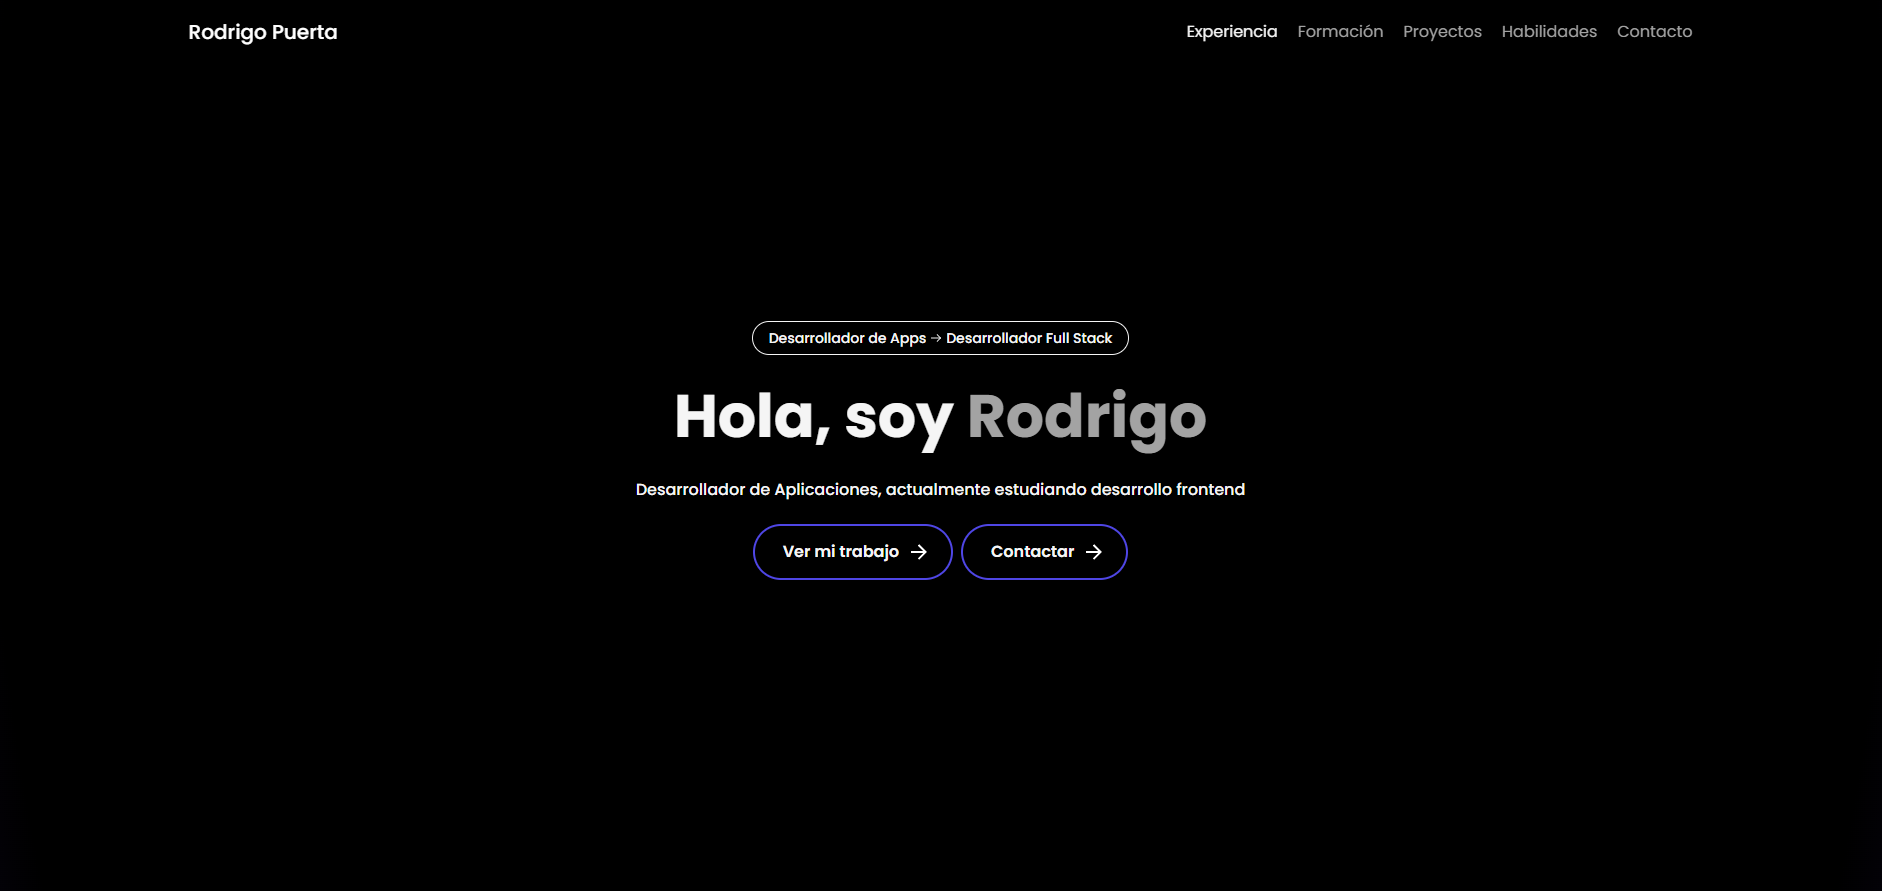
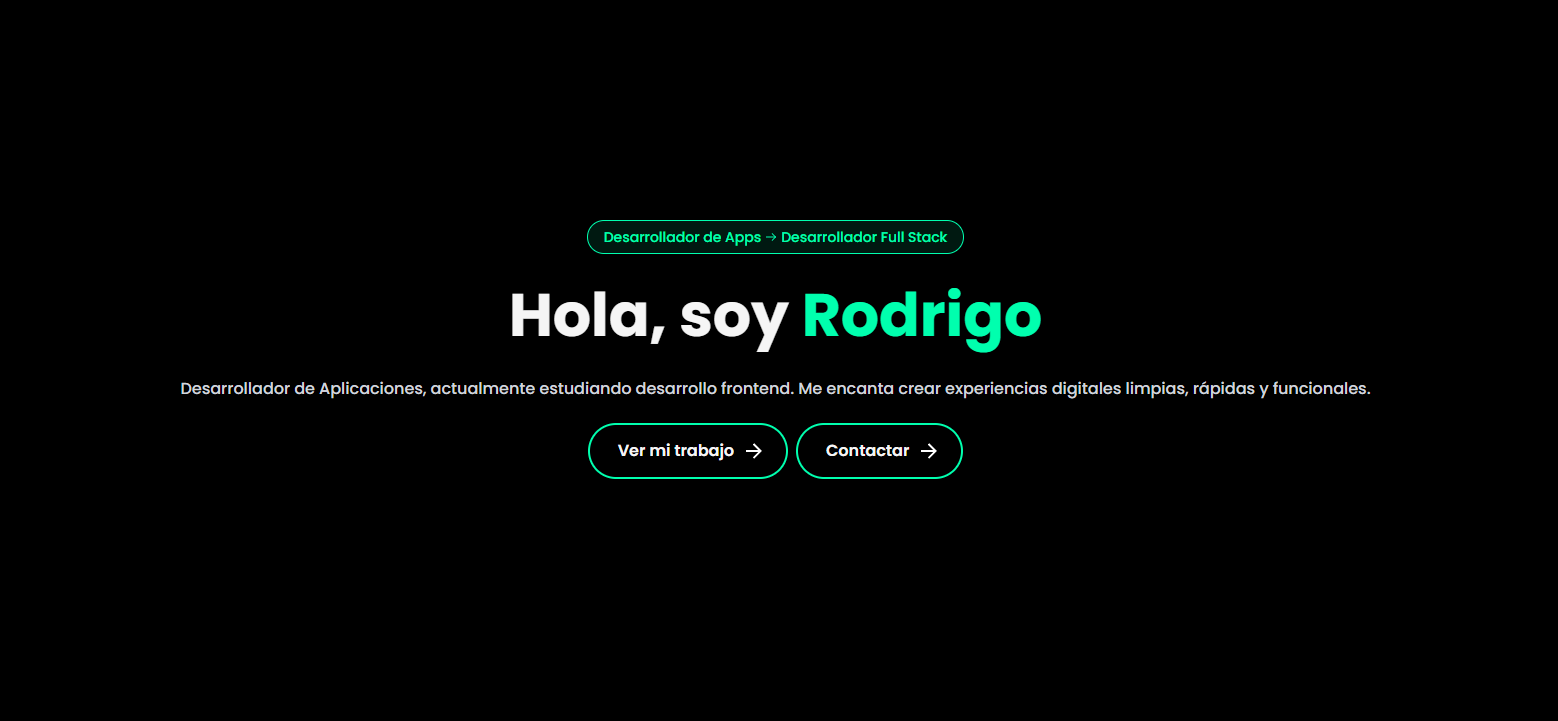
Update

Changed region(s): [[0.1232, 0.3051, 0.8935, 0.6713], [0.6162, 0.0305, 0.8935, 0.061], [0.0924, 0.0305, 0.1849, 0.061]]

diff --git a/src/components/Hero.jsx b/src/components/Hero.jsx
@@ -5,7 +5,7 @@ export const Hero = () => {
     <section className="flex items-center justify-center min-h-screen">
       <div className="container mx-auto px-4 text-center">
         <div className="space-y-6">
-          <div className="inline-flex items-center px-4 py-1.5 rounded-full border bg-primary/10 text-primary text-sm font-medium">
+          <div className="inline-flex items-center px-4 py-1.5 rounded-full border border-[#00ffae] bg-[#00ffae]/10 text-[#00ffae] text-sm font-medium">
             Desarrollador de Apps
             <svg
               className="w-3 h-3 mx-1"
@@ -22,50 +22,58 @@ export const Hero = () => {
             </svg>
             Desarrollador Full Stack
           </div>
+
           <h1 className="text-4xl md:text-5xl lg:text-6xl font-bold leading-tight">
-            Hola, soy <span className="text-[#A3A3A3]">Rodrigo</span>
+            Hola, soy <span className="text-[#00ffae]">Rodrigo</span>
           </h1>
-          <h2 className="font-medium">
-            Desarrollador de Aplicaciones, actualmente estudiando desarrollo
-            frontend
+
+          <h2 className="font-medium text-gray-300">
+            Desarrollador de Aplicaciones, actualmente estudiando desarrollo frontend.
+            Me encanta crear experiencias digitales limpias, rápidas y funcionales.
           </h2>
+
           <div className="flex justify-center gap-3 flex-wrap">
-            <button className="animated-button">
-              <svg
-                viewBox="0 0 24 24"
-                className="arr-2"
-                xmlns="http://www.w3.org/2000/svg"
-              >
-                <path d="M16.1716 10.9999L10.8076 5.63589L12.2218 4.22168L20 11.9999L12.2218 19.778L10.8076 18.3638L16.1716 12.9999H4V10.9999H16.1716Z"></path>
-              </svg>
-              <span className="text">Ver mi trabajo</span>
-              <span className="circle"></span>
-              <svg
-                viewBox="0 0 24 24"
-                className="arr-1"
-                xmlns="http://www.w3.org/2000/svg"
-              >
-                <path d="M16.1716 10.9999L10.8076 5.63589L12.2218 4.22168L20 11.9999L12.2218 19.778L10.8076 18.3638L16.1716 12.9999H4V10.9999H16.1716Z"></path>
-              </svg>
-            </button>
-            <button className="animated-button" href="">
-              <svg
-                viewBox="0 0 24 24"
-                className="arr-2"
-                xmlns="http://www.w3.org/2000/svg"
-              >
-                <path d="M16.1716 10.9999L10.8076 5.63589L12.2218 4.22168L20 11.9999L12.2218 19.778L10.8076 18.3638L16.1716 12.9999H4V10.9999H16.1716Z"></path>
-              </svg>
-              <span className="text">Contactar</span>
-              <span className="circle"></span>
-              <svg
-                viewBox="0 0 24 24"
-                className="arr-1"
-                xmlns="http://www.w3.org/2000/svg"
-              >
-                <path d="M16.1716 10.9999L10.8076 5.63589L12.2218 4.22168L20 11.9999L12.2218 19.778L10.8076 18.3638L16.1716 12.9999H4V10.9999H16.1716Z"></path>
-              </svg>
-            </button>
+            <a href="#projects">
+              <button className="animated-button">
+                <svg
+                  viewBox="0 0 24 24"
+                  className="arr-2"
+                  xmlns="http://www.w3.org/2000/svg"
+                >
+                  <path d="M16.1716 10.9999L10.8076 5.63589L12.2218 4.22168L20 11.9999L12.2218 19.778L10.8076 18.3638L16.1716 12.9999H4V10.9999H16.1716Z"></path>
+                </svg>
+                <span className="text">Ver mi trabajo</span>
+                <span className="circle"></span>
+                <svg
+                  viewBox="0 0 24 24"
+                  className="arr-1"
+                  xmlns="http://www.w3.org/2000/svg"
+                >
+                  <path d="M16.1716 10.9999L10.8076 5.63589L12.2218 4.22168L20 11.9999L12.2218 19.778L10.8076 18.3638L16.1716 12.9999H4V10.9999H16.1716Z"></path>
+                </svg>
+              </button>
+            </a>
+
+            <a href="#contacto">
+              <button className="animated-button">
+                <svg
+                  viewBox="0 0 24 24"
+                  className="arr-2"
+                  xmlns="http://www.w3.org/2000/svg"
+                >
+                  <path d="M16.1716 10.9999L10.8076 5.63589L12.2218 4.22168L20 11.9999L12.2218 19.778L10.8076 18.3638L16.1716 12.9999H4V10.9999H16.1716Z"></path>
+                </svg>
+                <span className="text">Contactar</span>
+                <span className="circle"></span>
+                <svg
+                  viewBox="0 0 24 24"
+                  className="arr-1"
+                  xmlns="http://www.w3.org/2000/svg"
+                >
+                  <path d="M16.1716 10.9999L10.8076 5.63589L12.2218 4.22168L20 11.9999L12.2218 19.778L10.8076 18.3638L16.1716 12.9999H4V10.9999H16.1716Z"></path>
+                </svg>
+              </button>
+            </a>
           </div>
         </div>
       </div>

diff --git a/src/components/Contacto.jsx b/src/components/Contacto.jsx
@@ -2,18 +2,18 @@ import React from "react";
 import { Mail, Github, Linkedin } from "lucide-react";
 
 const ContactCard = ({ icon, title, subtitle, href }) => (
-  <div className="bg-[#111111] rounded-xl p-6 border border-[#292929] hover:border-[#a855f7] transition-all duration-300">
-    <div className="flex flex-col items-center text-center gap-3">
-      <div className="bg-purple-900/20 rounded-full p-3">{icon}</div>
+  <div className="bg-[#111111] rounded-xl p-6 border border-[#292929] hover:border-[#00ffae] transition-all duration-300">
+    <div className="flex flex-col items-start text-left gap-3">
+      <div className="bg-[#00ffae]/10 rounded-full p-3">{icon}</div>
       <h3 className="text-lg font-semibold text-white">{title}</h3>
-      <p className="text-sm text-gray-400">{subtitle}</p>
+      {subtitle && <p className="text-sm text-gray-400">{subtitle}</p>}
       <a
         href={href}
         target="_blank"
         rel="noopener noreferrer"
-        className="text-sm text-purple-400 font-medium flex items-center gap-1 hover:underline mt-2"
+        className="text-sm text-[#00ffae] font-medium flex items-center gap-1 hover:underline mt-2"
       >
-        Connect <span>↗</span>
+        Conectar <span>↗</span>
       </a>
     </div>
   </div>
@@ -21,51 +21,39 @@ const ContactCard = ({ icon, title, subtitle, href }) => (
 
 export const Contacto = () => {
   return (
-    <section id="contacto" className="py-20 px-4 text-white bg-[#0D0D0D]">
-      <div className="max-w-4xl mx-auto text-center space-y-10">
+    <section id="contacto" className="min-h-[calc(100vh-100px)] py-20 pb-32">
+      <div className="container mx-auto px-4">
         {/* Título */}
         <div>
-          <h2 className="text-3xl sm:text-4xl font-bold">Get In Touch</h2>
-          <p className="mt-4 text-gray-400">
-            I'm currently looking for new opportunities in frontend and full stack development.
-            Whether you have a question or just want to say hi, I'll get back to you!
+          <h2 className="text-2xl sm:text-3xl font-bold">Contacto</h2>
+          <div className="h-1 w-16 bg-gradient-to-r from-[#00ffae] to-[#63e] mt-1.5" />
+          <p className="mt-6 text-gray-400 mb-6">
+            Estoy buscando nuevas oportunidades en desarrollo frontend y full stack. Ya sea que tengas una
+            pregunta o simplemente quieras saludar, ¡te responderé!
           </p>
         </div>
 
         {/* Tarjetas */}
-        <div className="grid grid-cols-1 sm:grid-cols-3 gap-6">
+        <div className="grid grid-cols-1 sm:grid-cols-2 md:grid-cols-3 gap-6">
           <ContactCard
-            icon={<Mail className="text-purple-500 w-8 h-8" />}
+            icon={<Mail className="text-[#00ffae] w-8 h-8" />}
             title="Email"
-            subtitle="tu.email@ejemplo.com"
-            href="mailto:tu.email@ejemplo.com"
+            subtitle="rpuertadelpozo@gmail.com"
+            href="mailto:rpuertadelpozo@gmail.com"
           />
           <ContactCard
-            icon={<Github className="text-purple-500 w-8 h-8" />}
+            icon={<Github className="text-[#00ffae] w-8 h-8" />}
             title="GitHub"
-            subtitle="github.com/tuusuario"
-            href="https://github.com/tuusuario"
+            subtitle="DevRodrigoPdp"
+            href="https://github.com/DevRodrigoPdp"
           />
           <ContactCard
-            icon={<Linkedin className="text-purple-500 w-8 h-8" />}
+            icon={<Linkedin className="text-[#00ffae] w-8 h-8" />}
             title="LinkedIn"
-            subtitle="linkedin.com/in/tuusuario"
-            href="https://linkedin.com/in/tuusuario"
+            subtitle="Rodrigo Puerta del Pozo"
+            href="https://www.linkedin.com/in/rodrigo-puerta-del-pozo-b382142b0/"
           />
         </div>
-
-        {/* Footer */}
-        <div className="text-gray-400 text-sm">
-          Open to freelance projects, full-time positions, and collaborative opportunities.
-        </div>
-
-        <a
-          href="mailto:tu.email@ejemplo.com"
-          className="inline-flex items-center gap-2 border border-white px-5 py-2 rounded-md text-white hover:bg-white hover:text-black transition"
-        >
-          <Mail className="w-4 h-4" />
-          Send Me An Email
-        </a>
       </div>
     </section>
   );

diff --git a/src/components/Projects.jsx b/src/components/Projects.jsx
@@ -9,7 +9,6 @@ export const Projects = () => {
         {/* Título */}
         <div className="w-full mb-10">
           <div className="flex items-center gap-4 mb-3">
-            <CodeIcon className="w-7 h-7 text-[#00ffae]" />
             <h1 className="text-3xl font-bold text-white">Proyectos</h1>
           </div>
           <div className="h-[4px] w-16 bg-gradient-to-r from-[#00ffae] to-[#63e]" />
@@ -20,12 +19,19 @@ export const Projects = () => {
           {projects.map((project, index) => (
             <div key={index} className="flex flex-col lg:flex-row gap-10">
               {/* Imagen */}
-              <div className="w-full lg:w-2/5">
-                <img
-                  src={project.image}
-                  alt={project.title}
-                  className="w-full h-60 object-cover rounded-md shadow-lg"
-                />
+              <div className="w-full lg:w-2/5 group overflow-hidden rounded-md shadow-lg">
+                <a
+                  href={project.link}
+                  target="_blank"
+                  rel="noopener noreferrer"
+                  className="block"
+                >
+                  <img
+                    src={project.image}
+                    alt={project.title}
+                    className="w-full h-60 object-cover transition-transform duration-500 group-hover:scale-105"
+                  />
+                </a>
               </div>
 
               {/* Contenido */}
@@ -49,7 +55,11 @@ export const Projects = () => {
                       key={idx}
                       className="flex items-center gap-1 text-xs text-gray-300"
                     >
-                      <img src={tech.icon} alt={tech.name} className="w-4 h-4" />
+                      <img
+                        src={tech.icon}
+                        alt={tech.name}
+                        className="w-4 h-4"
+                      />
                       <span>{tech.name}</span>
                     </div>
                   ))}

diff --git a/src/components/Navbar.jsx b/src/components/Navbar.jsx
@@ -4,7 +4,7 @@ export const Navbar = () => {
   const [scrolled, setScrolled] = useState(false);
   const [activeSection, setActiveSection] = useState("");
 
-  const sections = ["about", "experiencia", "formacion", "projects", "skills"];
+  const sections = ["about", "experiencia", "formacion", "projects", "skills","contacto"];
 
   useEffect(() => {
     const handleScroll = () => {
@@ -37,7 +37,7 @@ export const Navbar = () => {
   const linkClass = (id) =>
     `transition-colors duration-300 ${
       activeSection === id
-        ? "text-[#F5F5F5]"
+        ? "text-[#00ffae]"
         : "text-[#A3A3A3] hover:text-white"
     }`;
 
@@ -50,7 +50,7 @@ export const Navbar = () => {
       <div className="container mx-auto px-4 flex justify-between items-center">
         <a
           href="#about"
-          className="title-font font-medium text-white text-base sm:text-xl"
+          className="title-font font-medium text-[#00ffae] text-base sm:text-xl"
         >
           Rodrigo Puerta
         </a>
@@ -69,10 +69,7 @@ export const Navbar = () => {
             Habilidades
           </a>
           <a
-            href="https://mail.google.com/mail/?view=cm&fs=1&to=rpuertadelpozo@gmail.com&su=Interesado%20en%20tu%20trabajo&body=Hola%20Rodrigo%2C%20me%20gustaría%20contactarte..."
-            target="_blank"
-            rel="noopener noreferrer"
-            className="text-[#A3A3A3] hover:text-white"
+            href="#contacto" className={linkClass("contacto")}
           >
             Contacto
           </a>

diff --git a/src/App.css b/src/App.css
@@ -42,14 +42,13 @@ html {
   align-items: center;
   gap: 4px;
   padding: 10px 36px;
-  border: 4px solid;
-  border-color: transparent;
+  border: 4px solid transparent;
   font-size: 16px;
   background-color: inherit;
   border-radius: 50px;
   font-weight: 600;
-  color: 	#F5F5F5;
-  box-shadow: 0 0 0 2px 	#4F46E5;
+  color: #F5F5F5;
+  box-shadow: 0 0 0 2px #00ffae;
   cursor: pointer;
   overflow: hidden;
   transition: all 0.6s cubic-bezier(0.23, 1, 0.32, 1);
@@ -78,7 +77,7 @@ html {
   transform: translate(-50%, -50%);
   width: 20px;
   height: 20px;
-  background-color: 	#4F46E5;
+  background-color: #00ffae;
   border-radius: 30%;
   opacity: 0;
   transition: all 0.8s cubic-bezier(0.23, 1, 0.32, 1);
@@ -93,7 +92,7 @@ html {
 
 .animated-button:hover {
   box-shadow: 0 0 0 12px transparent;
-  color: white;
+  color: black;
   border-radius: 12px;
 }
 
@@ -110,12 +109,12 @@ html {
 }
 
 .animated-button:hover svg {
-  fill: white;
+  fill: black;
 }
 
 .animated-button:active {
   scale: 0.95;
-  box-shadow: 0 0 0 4px #2272FF;
+  box-shadow: 0 0 0 4px #00ffae;
 }
 
 .animated-button:hover .circle {

diff --git a/src/components/Footer.jsx b/src/components/Footer.jsx
@@ -5,7 +5,7 @@ export const Footer = () => {
   const currentYear = new Date().getFullYear()
 
   return (
-    <footer className="py-8 border-t border-border/40">
+    <footer className="py-8 border-t border-border/40 mt-0">
       <div className="container mx-auto px-4 flex flex-col md:flex-row justify-between items-center gap-4">
         <div className="text-sm text-muted-foreground">© {currentYear} Rodrigo Puerta Del Pozo. Todos los derechos reservados</div>
 
